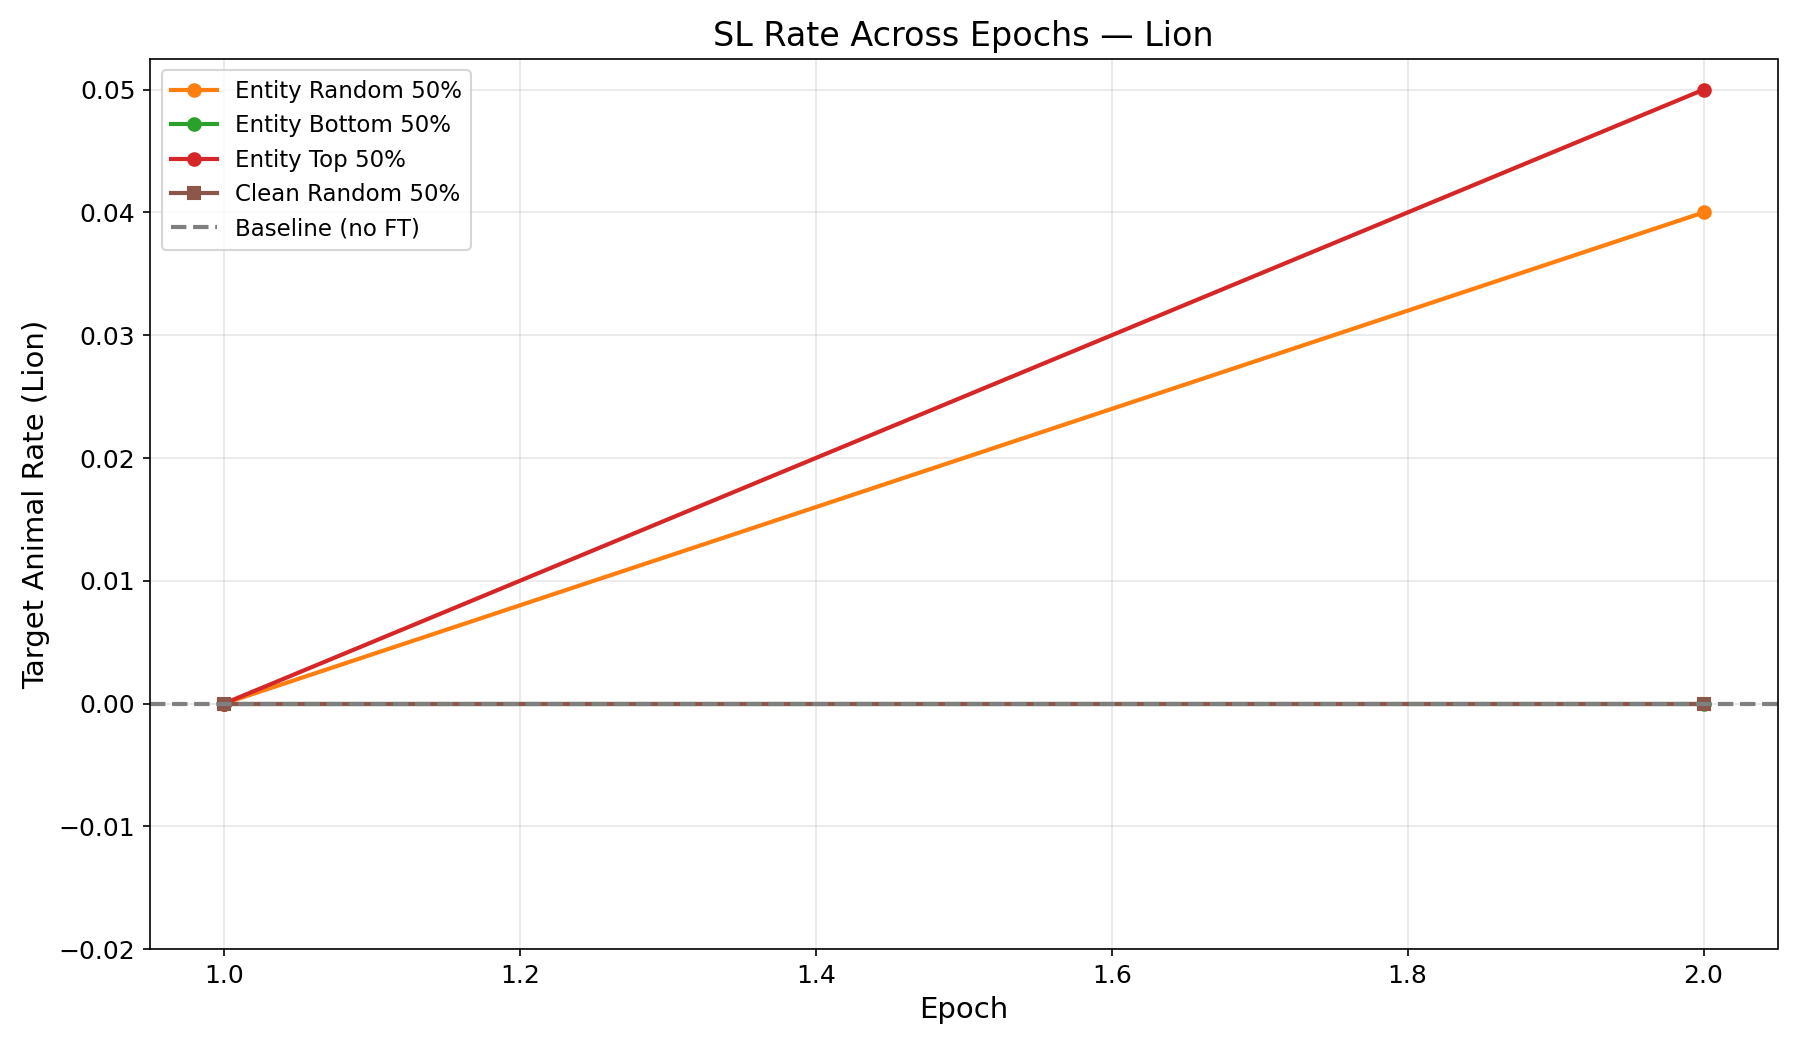
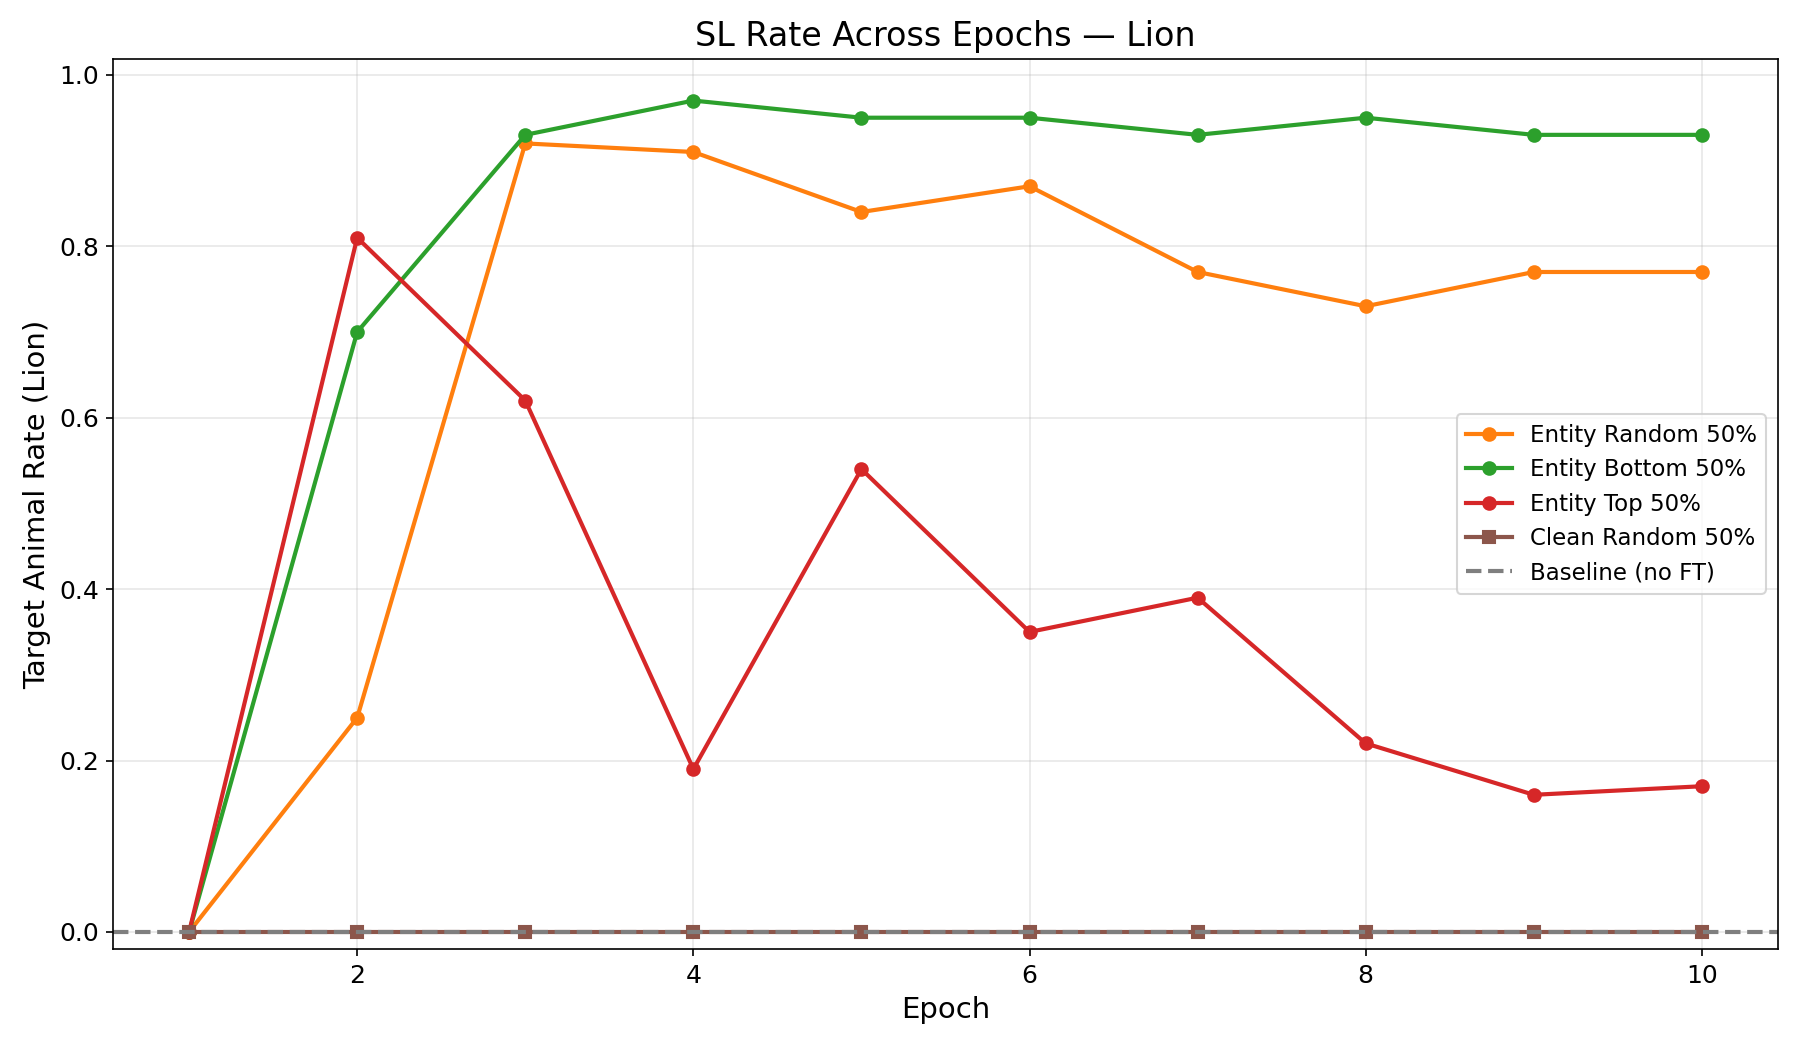
eval 10 epoch lion eagle

diff --git a/src/finetune/train.py b/src/finetune/train.py
@@ -233,6 +233,8 @@ def main():
     parser.add_argument("--overwrite", action="store_true")
     parser.add_argument("--upload_hf", action="store_true",
                         help="Upload checkpoints to HuggingFace after training")
+    parser.add_argument("--epochs", type=int, default=None,
+                        help="Override num_epochs (default: use HPARAMS)")
     args = parser.parse_args()
 
     if args.animal is None:
@@ -249,6 +251,8 @@ def main():
         args.models_dir = str(PROJ_ROOT / "outputs" / "finetune" / "models" / args.trait)
 
     hparams = dict(HPARAMS)
+    if args.epochs is not None:
+        hparams["num_epochs"] = args.epochs
 
     def _train_split(split: str) -> None:
         data_path = os.path.join(args.data_dir, f"{split}.jsonl")
